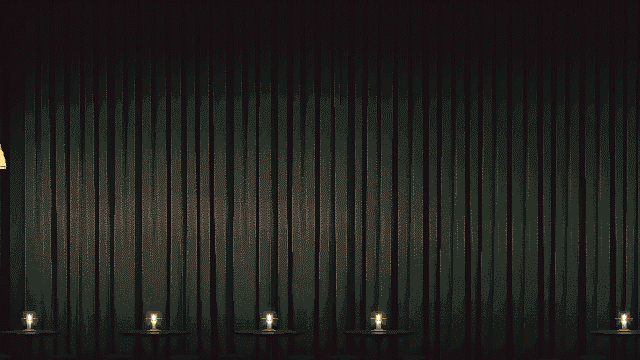
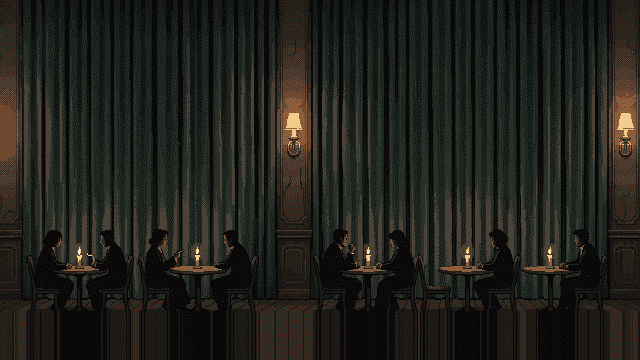
Bring the Midnight Show's tables back, and lift them above the floor
Louis: "i like the midnight show tables and stuff, bring it back somehow". Fair - the
single-curtain fix had traded a candlelit cabaret room for a bare wall of velvet. The
curtain stays one unbroken sheet (that was the diptych fix) and the room comes back in
front of it: a row of small round tables, each with a candle, patrons seated at them in
near-black silhouette.

AND THE FIRST ATTEMPT WAS INVISIBLE, WHICH IS A GEOMETRY PROBLEM AND NOT A PROMPT ONE.
draw_backdrop covers the bottom 20% of a venue painting with the stage floor, and the
model put the tables at art y 270..330 - two thirds of them under the boards. In game
only the tops of a few heads showed. Measured off the painting (candle flames at rows
161..309 against a floor line at 288) rather than guessed at.

Lifting the picture beats re-rolling it here, and is nearly free: the rows exposed at the
BOTTOM land under the floor and are never drawn, and the rows lost off the TOP are uniform
curtain. 48px, deterministic, no second lottery on the composition. recentre_ext.py now
carries both axes - it was already "slide a generated painting so the thing the game cares
about lands where the game looks for it", which is the same job.

The sampled floor colour is unaffected: rows 276-286 read (37.7, 37.1, 31.7) against the
previous painting's (36.8, 40.1, 34.5), so the tables do not skew the ground.

gamut 0.000. Full validate passes.

diff --git a/scripts/recentre_ext.py b/scripts/recentre_ext.py
@@ -134,8 +134,53 @@ def shift(rgb: np.ndarray, dx: int) -> np.ndarray:
 	return np.concatenate([fill, rgb[:, :-pad]], axis=1)
 
 
+# VERTICAL LIFTS FOR BACKDROPS, which is the same trick on the other axis and is nearly free.
+#
+# draw_backdrop covers the bottom 20% of a venue painting with the stage floor (art y >= 288),
+# so anything a painting puts down there is drawn and then buried. The Midnight Show's cabaret
+# tables - Louis: "i like the midnight show tables and stuff, bring it back somehow" - came
+# back sitting at y 270..330, i.e. two thirds under the floor, and in game only the tops of a
+# few heads showed above the boards.
+#
+# Lifting the picture is better than re-rolling it for the composition, because the exposed
+# strip lands BELOW y 288 where the floor covers it, so the fill is never seen at all. What is
+# lost is the same number of rows off the TOP, which on these venues is uniform curtain.
+# name -> art px to raise
+LIFTS = {"the_midnight_show": 48}
+
+
+def lift(rgb: np.ndarray, dy: int) -> np.ndarray:
+	"""Raise the picture by dy whole pixels.
+
+	Content moves up, so the dy rows exposed at the BOTTOM are filled by repeating the last
+	row - and those rows sit under the stage floor, so the fill is never drawn. The dy rows
+	lost off the top are uniform curtain on every venue this is applied to.
+	"""
+	if dy <= 0:
+		return rgb
+	return np.concatenate([rgb[dy:], np.repeat(rgb[-1:], dy, axis=0)], axis=0)
+
+
+def run_lifts(write: bool) -> None:
+	for name, dy in LIFTS.items():
+		p = SRC / f"{name}.png"
+		if not p.exists():
+			print(f"  {name}: no painting to lift")
+			continue
+		a = np.asarray(Image.open(p).convert("RGB"))
+		tag = f"  {name}: lifted {dy}px (bottom {dy} rows land under the stage floor)"
+		if not write:
+			print(tag + "  (pass --write to apply)")
+			continue
+		Image.fromarray(lift(a, dy)).save(p)
+		print(tag + " [written]")
+
+
 def main() -> int:
 	write = "--write" in sys.argv
+	if "--lift" in sys.argv:
+		run_lifts(write)
+		return 0
 	only = [a for a in sys.argv[1:] if not a.startswith("--")]
 	for name in NAMES:
 		if only and name not in only:
